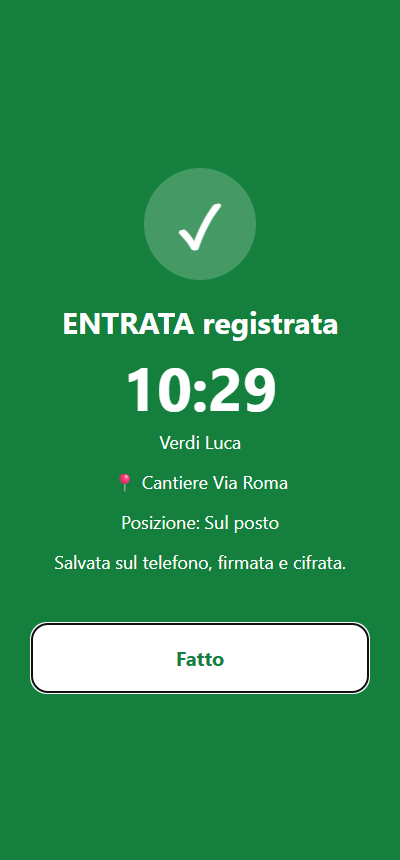
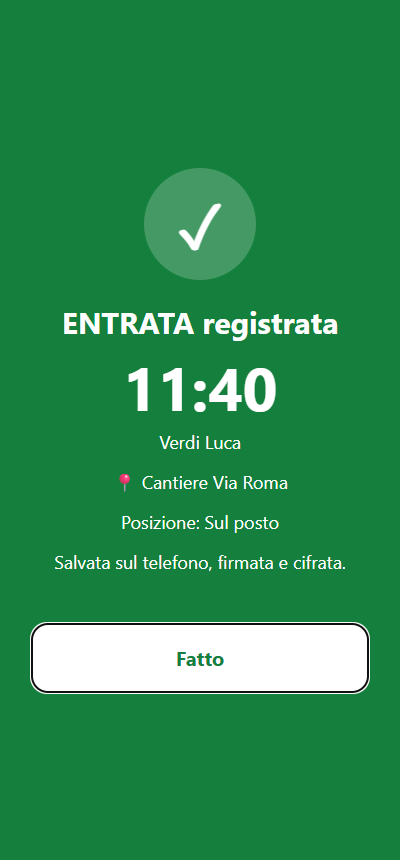
Pagina web 202611161153

Changed region(s): [[0.51, 0.4233, 0.69, 0.4837], [0.39, 0.4233, 0.48, 0.4837]]

diff --git a/azienda.html b/azienda.html
@@ -3601,7 +3601,7 @@ var qrcode = function() {
   const STORE = "cartellino.azienda";
   const DEFAULT_APP_URL = "https://digitalvalut.github.io/cartellino/";
   const DEFAULT_LICENZE_URL = "https://digitalvalut.github.io/cartellino/licenze.json";
-  const AREA_VERSION = "202611161050"; // sostituito quando si crea il pacchetto
+  const AREA_VERSION = "202611161153"; // sostituito quando si crea il pacchetto
   const COLORS = ["0F62FE", "15803D", "B91C1C", "7C3AED", "C2410C", "0F172A"];
   const MAX_FILE_MB = 20;
   const esc = (s) => String(s == null ? "" : s).replace(/[&<>"']/g, (c) => ({ "&": "&amp;", "<": "&lt;", ">": "&gt;", '"': "&quot;", "'": "&#39;" })[c]);

diff --git a/sw.js b/sw.js
@@ -3,9 +3,9 @@
  * - pagine: prima la rete (versione aggiornata), senza rete l'ultima copia salvata;
  * - file del programma e icone: dalla copia salvata (cambiano nome a ogni versione);
  * - elenco clienti (licenze.json): SEMPRE dalla rete, mai dalla copia (serve al blocco licenza).
- * "202611161050" viene sostituito a ogni pubblicazione.
+ * "202611161153" viene sostituito a ogni pubblicazione.
  */
-const CACHE = "cartellino-202611161050";
+const CACHE = "cartellino-202611161153";
 const PAGES = ["./", "attiva", "privacy", "login", "home", "leave", "manifest.json", "icon-192.png", "apple-touch-icon.png"];
 
 self.addEventListener("install", (event) => {
